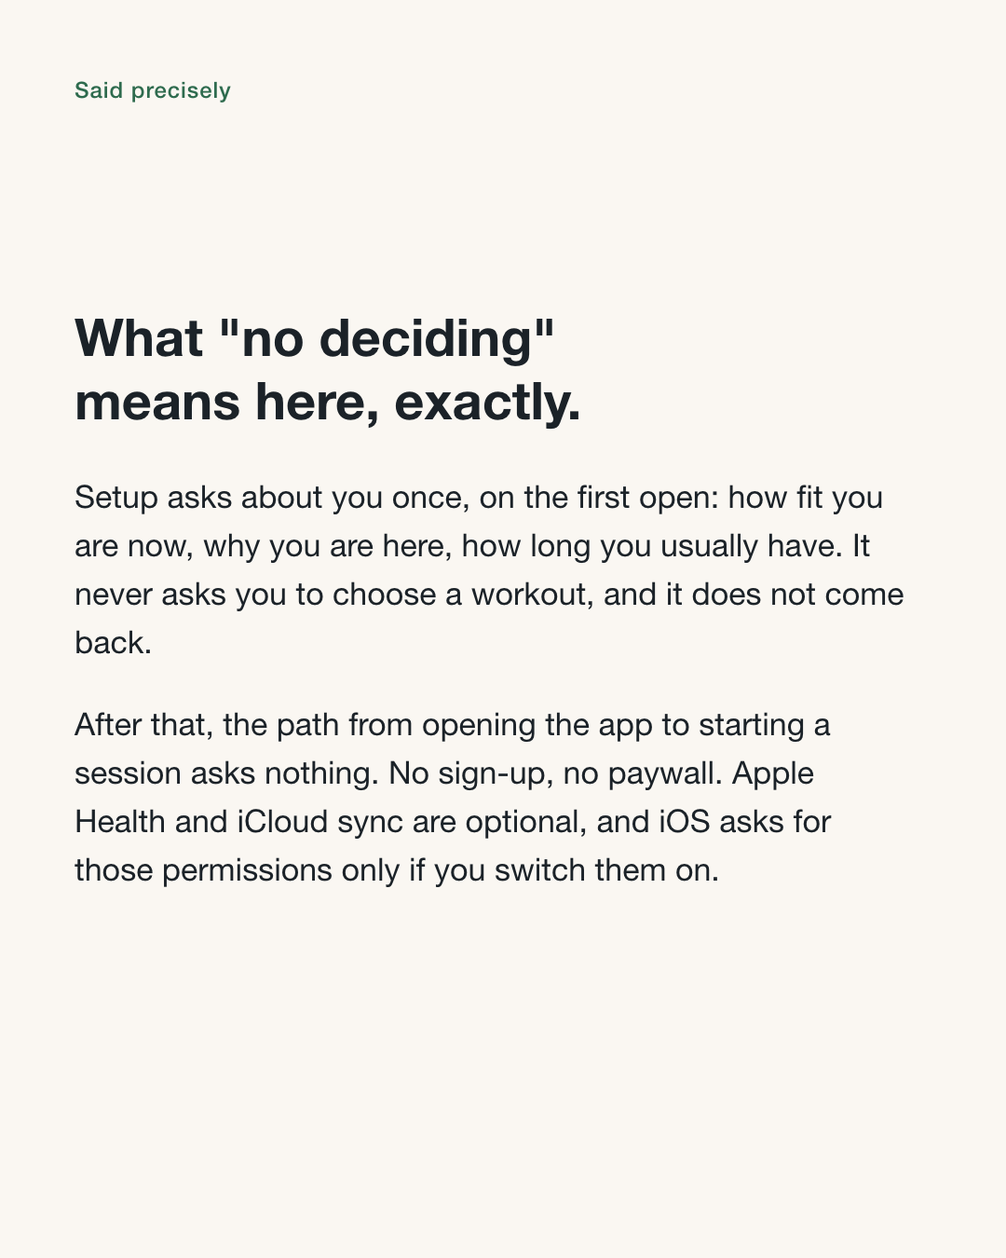
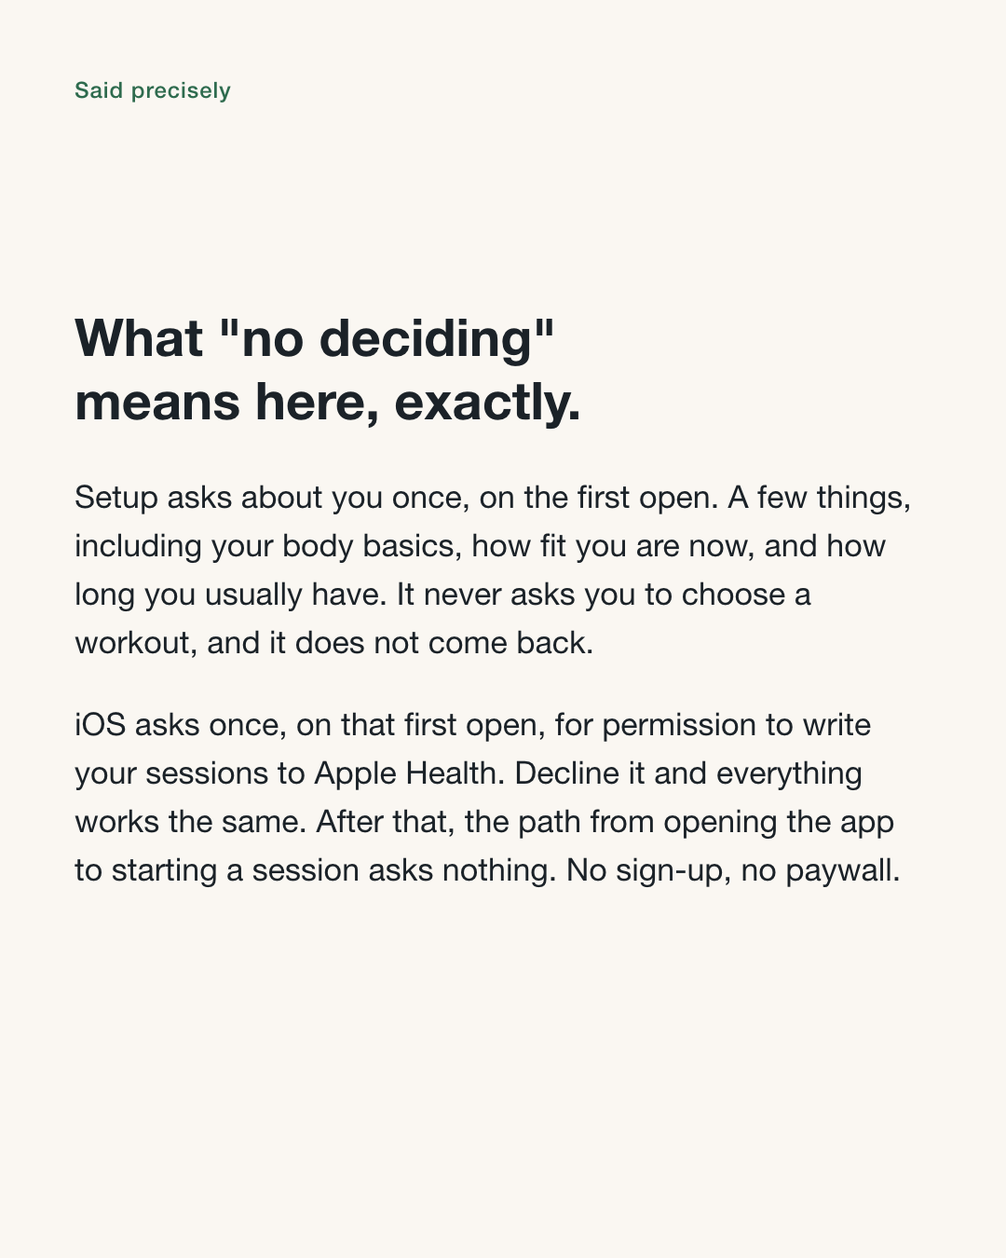
no-mistakes(review): fix false Health claim, near-verbatim hooks, guard vacuous passes

Changed region(s): [[0.0611, 0.56, 0.8861, 0.7156], [0.0611, 0.3733, 0.9167, 0.5289]]

diff --git a/gtm/10-instagram/carousel-1-you-do-not-pick/slide-06.html b/gtm/10-instagram/carousel-1-you-do-not-pick/slide-06.html
@@ -14,8 +14,8 @@
 
   <div class="zone">
     <h2 class="h2">What "no deciding"<br>means here, exactly.</h2>
-    <p class="body" style="margin-top: 44px;">Setup asks about you once, on the first open: how fit you are now, why you are here, how long you usually have. It never asks you to choose a workout, and it does not come back.</p>
-    <p class="body" style="margin-top: 36px;">After that, the path from opening the app to starting a session asks nothing. No sign-up, no paywall. Apple Health and iCloud sync are optional, and iOS asks for those permissions only if you switch them on.</p>
+    <p class="body" style="margin-top: 44px;">Setup asks about you once, on the first open. A few things, including your body basics, how fit you are now, and how long you usually have. It never asks you to choose a workout, and it does not come back.</p>
+    <p class="body" style="margin-top: 36px;">iOS asks once, on that first open, for permission to write your sessions to Apple Health. Decline it and everything works the same. After that, the path from opening the app to starting a session asks nothing. No sign-up, no paywall.</p>
   </div>
 
   <div class="rail rail-bottom">

diff --git a/gtm/10-instagram/carousel-1-you-do-not-pick/slide-05.html b/gtm/10-instagram/carousel-1-you-do-not-pick/slide-05.html
@@ -24,7 +24,7 @@
         <p class="step-name">Start</p>
       </div>
     </div>
-    <p class="body" style="margin-top: 56px;">Setup asks about you once, on the first open. After that, nothing stands between these two. No account to make, no subscription sheet.</p>
+    <p class="body" style="margin-top: 56px;">Setup asks about you once, on the first open, and iOS asks once about Health. After that, nothing stands between these two. No account to make, no subscription sheet.</p>
   </div>
 
   <div class="rail rail-bottom">

diff --git a/gtm/10-instagram/carousel-3-this-is-for-you-if/slide-02.html b/gtm/10-instagram/carousel-3-this-is-for-you-if/slide-02.html
@@ -15,7 +15,7 @@
   <div class="zone">
     <ul class="stack">
       <li><span class="lede">9pm</span>, once the kids are finally down.</li>
-      <li><span class="lede">7am</span> in a hotel room, before the first meeting.</li>
+      <li><span class="lede">7am</span>, before the first meeting of the day.</li>
       <li><span class="lede">Ten minutes between calls</span>, in whatever you are already wearing.</li>
     </ul>
   </div>

diff --git a/gtm/10-instagram/carousel-4-nothing-to-lose/slide-05.html b/gtm/10-instagram/carousel-4-nothing-to-lose/slide-05.html
@@ -13,7 +13,7 @@
   </div>
 
   <div class="zone">
-    <h2 class="h1">Five minutes counts as a full show-up.</h2>
+    <h2 class="h1">The shortest session is a full show-up.</h2>
     <p class="body" style="margin-top: 48px;">Not partial credit. Not an asterisk. The short session you had time for counts exactly the same as the long one you did not.</p>
   </div>
 

diff --git a/gtm/10-instagram/claim-audit.py b/gtm/10-instagram/claim-audit.py
@@ -24,11 +24,10 @@ Two jobs.
 
    This script only reads gtm/05-social-pmf/. It never writes there.
 
-   It guards the verbatim half of that rule and only the verbatim half. The rule
-   is about the proposition, and a leg restated in different words is the same
-   pre-exposure with none of the same bytes, which no string check can see.
-   README.md names, in the specific, which propositions this folder may not
-   carry; read it before writing a headline.
+   The rule it guards is verbatim reuse, which is the whole rule: the pairs run
+   on TikTok and YouTube Shorts and Instagram is not a test platform, so what a
+   carousel must not do is put a frozen leg's sentence in front of a reader.
+   README.md records why the scope stops there.
 """
 
 import os
@@ -204,10 +203,17 @@ def main():
                         seen.add(hit)
                         failures.append(hit)
 
-        flat = normalize(visible)
-        for hook in hooks:
-            if hook in flat:
-                failures.append("%s restates a frozen PMF hook verbatim: %r" % (rel, hook))
+        # Same two scans, and for the same reason: blanking the tags is what
+        # catches a hook broken across a <br>, and the raw file is what keeps a
+        # hook parked in a <title>, an alt, or an aria-label from slipping past.
+        for source in (visible, raw):
+            flat = normalize(source)
+            for hook in hooks:
+                if hook in flat:
+                    hit = "%s restates a frozen PMF hook verbatim: %r" % (rel, hook)
+                    if hit not in seen:
+                        seen.add(hit)
+                        failures.append(hit)
 
     print("Audited %d authored file(s) in gtm/10-instagram/, of which %d are "
           "publishable copy (slides and captions)." % (len(files), len(copy_files)))

diff --git a/gtm/10-instagram/widow-check.py b/gtm/10-instagram/widow-check.py
@@ -140,7 +140,13 @@ def main(argv):
     dirs = argv or sorted(os.path.basename(d.rstrip("/"))
                           for d in glob.glob(os.path.join(HERE, "carousel-*/")))
     slides, failures = 0, []
+    # A named carousel that does not exist is a mistyped argument, not an empty
+    # result. Measuring nothing and printing PASS is the one answer a guard must
+    # never give, so an unknown name and a zero-slide run both fail below.
     for name in dirs:
+        if not os.path.isdir(os.path.join(HERE, name)):
+            failures.append("no such carousel directory: %s" % name)
+            continue
         for slide in sorted(glob.glob(os.path.join(HERE, name, "slide-*.html"))):
             slides += 1
             for entry in measure(chrome, slide):
@@ -149,12 +155,15 @@ def main(argv):
                                     % (os.path.relpath(slide, HERE), entry["cls"], w,
                                        " / ".join(entry["lines"])))
 
+    if slides == 0:
+        failures.append("measured no slides at all, so nothing was checked.")
+
     print("Measured line boxes on %d slide(s)." % slides)
     print()
     if failures:
         for f in failures:
             print("FAIL  %s" % f)
-        print("\n%d widow(s)." % len(failures))
+        print("\n%d finding(s)." % len(failures))
         return 1
     print("PASS  no headline or large-type line is a lone word of %d characters "
           "or fewer." % MAX_WIDOW_WORD)

diff --git a/gtm/10-instagram/fit-check.py b/gtm/10-instagram/fit-check.py
@@ -119,6 +119,13 @@ def check(path):
 
 
 def main(paths):
+    # A check with nothing to check must not print PASS. Handed an empty path
+    # list, this would otherwise report a clean run over zero slides, which is
+    # the one result a guard is never allowed to give.
+    if not paths:
+        print("FAIL  no slides to check: fit-check.py was given no paths.")
+        return 1
+
     failures = 0
     for path in paths:
         try:

diff --git a/gtm/10-instagram/README.md b/gtm/10-instagram/README.md
@@ -44,7 +44,9 @@ Instagram is a non-adjudicating distribution mirror in that experiment.
 This folder is a separate, additive surface, and the separation is load-bearing:
 
 - **Carousel performance never adjudicates an angle.** No result from these posts kills, revives, or ranks anything in the angle bank. Nothing here is written to `creative-log.json`, and nothing here should be.
-- **No slide or caption pre-exposes an A/B pair leg, as a string or as a proposition.** Pre-exposing one leg biases the day-N versus day-N+7 comparison that the pair exists to resolve, and what biases it is a reader arriving at the leg already familiar with what it says, not with how it was spelled. The verbatim half is enforced mechanically by `claim-audit.py` below. The idea half cannot be, and is written out in the specific just below so it cannot recur by being forgotten.
+- **No slide or caption restates an A/B pair leg hook verbatim.** Putting a frozen leg's own sentence in front of a reader pre-exposes it and biases the day-N versus day-N+7 comparison the pair exists to resolve. `claim-audit.py` below enforces this mechanically.
+
+  The rule is verbatim-scoped on purpose, and the scope is worth recording so it does not get quietly widened again: the pairs run on TikTok and YouTube Shorts, `../05-social-pmf/platform-assignment.md` explicitly excludes Instagram as a test platform, and the positioning pillars underneath the hooks are deliberately shared with this folder (see the line below), so a rule reaching past the strings would forbid the carousels from saying what the product is.
 - **Nothing under `../05-social-pmf/` was modified.** Not one character. The audit script reads those files and never writes to them.
 
 Drawing on Hero A, Hero B, and the five messaging pillars in `../02-brand/positioning.md` is fine and encouraged, because those are positioning rather than frozen experiment hooks.
@@ -60,22 +62,13 @@ Two of the five carousels were briefed under working titles that turned out to b
 | "Missing a day never zeroes you out." | AB-2, leg B | **"There is nothing here to lose."** |
 
 Both working titles are also approved hero headlines in `../02-brand/brand-guidelines.md` section 9, which is exactly why the collision is easy to miss: the A/B pairs froze the hero headlines as leg B of their pairs.
-Where the two rules meet, the experiment-integrity rule governs, and it governs the proposition rather than only the sentence.
+Where the two rules meet, the experiment-integrity rule governs the sentence and positioning governs the idea.
 
-**What that means for AB-1, concretely, because this is the rule that is easy to satisfy on paper and break in fact.**
-Leg B's proposition is that the workout is *already there when you open the app*.
-An earlier revision of carousel 1 avoided leg B's string and then said the same thing in different words ("It is on screen when the app opens", "It opens ready. That is the entire idea."), which pre-exposes exactly what the pair is trying to measure.
-So no hook, headline, eyebrow, caption opening line, or closing line anywhere in this folder now asserts that the workout is there or ready at the moment of opening.
-What carousel 1 carries instead is the truth underneath it: **you do not pick the workout, the choosing is done for you, there is no menu.**
-That is `positioning.md` pillar 1, it belongs to neither leg of AB-1, and it is what the whole carousel is now built on, which is why the folder is `carousel-1-you-do-not-pick/` rather than named after the leg-B phrasing it used to echo.
+So carousel 1 leads on the truth underneath AB-1's leg B rather than on leg B's own line: **you do not pick the workout, the choosing is done for you, there is no menu.**
+That is `positioning.md` pillar 1, which is shared on purpose, and it is what the whole carousel is built on, which is why the folder is `carousel-1-you-do-not-pick/`.
 
-The one thing the rule permits is a mechanism sentence in body copy, once, inside a slide, where explaining *how* the session gets there requires saying that the app opens to it.
-An explanation on slide 4 of a swipe is not what builds hook familiarity; a hook is.
-The line to hold is that the leg-B claim may never occupy a hook position, and the two rules are settled the same way everywhere: the idea belongs to positioning, the specific proposition under test belongs to the experiment.
-
-Carousel 4's replacement deliberately enters from a third direction.
-AB-2 tests "admit the cost" (leg A) against "pure negation of loss" (leg B), so a forgiveness hook written either way would lean on one leg.
-"There is nothing here to lose" is an inventory of absent machinery instead, which is neither leg's framing.
+A handful of lines were also moved off strings that sat within about a word of a frozen hook, where the guard would have passed on a technicality rather than because the copy was clear of it: carousel 4's floor slide now reads "The shortest session is a full show-up." rather than pairing five minutes with counting as showing up (AB-5 leg A), and carousel 3's small-windows slide no longer situates one in a hotel room (AB-5 leg B's distinguishing move).
+Near-miss paraphrase is where the verbatim rule is thinnest, so it is worth checking a new headline against `ab-pairs.md` by eye even when the script is green.
 
 ## Claim hygiene
 
@@ -99,7 +92,7 @@ The **character check** covers every file including this one, because the no-em-
 
 Inside a slide, those two checks read the copy **with the markup blanked out**, because a reader sees the headline and not its tags.
 Matching the raw file missed anything spanning an inline tag, and this folder line-breaks its headlines with explicit `<br>` exactly where a break would land, so `71<br>movements` or a leg hook broken over two lines was invisible to the guard at precisely the place it was most likely to occur.
-Tags are blanked rather than deleted, so reported line numbers still point at the real line, and the patterns are also run against the raw file so an attribute value stays covered.
+Tags are blanked rather than deleted, so reported line numbers still point at the real line, and both checks are also run against the raw file so an attribute value stays covered: every slide carries a `<title>` and an `aria-label`, which are authored copy a hook could hide in just as easily as a banned figure could.
 
 That last check is a deliberate **superset** of the rule: it guards all 12 A/B leg hooks plus the angle bank's hooks and the mined review quotes, so it is stricter than "no A/B leg hook verbatim" requires.
 It parses the frozen files live rather than hard-coding a hook list, so it cannot drift out of date.
@@ -181,7 +174,7 @@ Run against `../08-redteam/pre-publication-checklist.md`, item by item:
 | Device benchmark for the speed claim *(blocking: social)* | No | Does not block: no asset here carries a speed figure. |
 | Verify every behavioural claim against the approved binary before launch day | **Yes, at launch** | Open. Every mechanic claimed here is in the shipped engine, but the package convention is to re-verify against the binary before launch day. |
 | Domain decision / register before any asset carrying a URL ships | No | No asset here carries a URL. The captions say "Link in bio", which names the profile rather than a destination; that the bio has one to point at is part of the account item above. |
-| Privacy policy, FAQ / event-schema / nutrition-label reconciliation | No | No asset here makes a data-practices claim. |
+| Privacy policy, FAQ / event-schema / nutrition-label reconciliation | **Yes, narrowly** | One claim: carousel 1 slide 6 says iOS asks once for permission to write your sessions to Apple Health and that declining changes nothing. Verified against `RootView.swift` (the request is unconditional on entering the main tabs, so it is a system ask and not an in-app switch) and `HealthKitService.swift` (write-only, and a denial is a quiet no-op). Nothing here describes analytics, and no asset states a retention or sharing practice. |
 | Account deletion path | No | Submission concern, not an asset concern. |
 | Confirm App Store pricing, regenerate screenshot 05 | No | No asset here states a price. |
 | Re-record the video voiceover | No | Video only. |
@@ -251,7 +244,7 @@ The HTML is the source of truth and the PNGs under each `carousel-*/render/` are
 Both are committed, so a reviewer can see the assets without running anything.
 Re-rendering on **the same Chrome build** reproduces them byte for byte, which is what makes a diff meaningful after a copy edit; a different Chrome version can rasterize, compress, or font-fall-back differently and produce a whole-folder binary diff with no copy change behind it, so read an unexplained 35-file image diff as a toolchain difference before reading it as a regression.
 `render.sh` finds Chrome or Chromium itself, renders every slide at a forced device scale factor of 1, and then runs all three guards, so a layout that does not fit, a headline that widows, or a claim that collides fails the regenerate instead of reaching a reviewer.
-Rendering a carousel that has no slides in it is also a failure rather than a green run over nothing.
+Rendering a carousel that has no slides in it is also a failure rather than a green run over nothing, and each guard enforces that for itself rather than trusting the caller: a mistyped carousel name, an empty directory, or an empty path list fails in `fit-check.py` and `widow-check.py` too, because a check with nothing to check must never print PASS.
 
 ### Publishing, when Gate 0 clears
 

diff --git a/gtm/10-instagram/carousel-1-you-do-not-pick/caption.md b/gtm/10-instagram/carousel-1-you-do-not-pick/caption.md
@@ -11,7 +11,7 @@ Wanting to move was never the hard part. The hard part is the stack of small cho
 
 Rep Today takes that stack off you. An engine assembles the whole session on the phone, offline, sized to the time you have, and hands it over with one Start button. Not a faster menu. No menu.
 
-Being precise about "no deciding", because it is the kind of line that gets stretched: setup asks about you once, on the first open, and it never asks you to choose a workout. After that, the path from opening the app to starting a session asks nothing. No sign-up, no paywall. Apple Health and iCloud sync are optional, and iOS asks for those permissions only if you switch them on.
+Being precise about "no deciding", because it is the kind of line that gets stretched: setup asks about you once, on the first open, and it never asks you to choose a workout. iOS asks once, on that first open, for permission to write your sessions to Apple Health, and declining changes nothing about how the app works. After that, the path from opening the app to starting a session asks nothing. No sign-up, no paywall.
 
 5 to 60 minutes. Bodyweight, so it needs no equipment. Built on the phone, so it needs no signal.
 
@@ -25,14 +25,14 @@ iOS, not released yet. Link in bio.
 
 **Slide 1.** The Rep Today Ready Mark, a green outlined rounded square with a filled circle low inside it, sits small in the top left of a warm off-white card. Below a short green rule, large dark type reads: "You do not pick a workout." The word "Swipe" sits quietly at the bottom left.
 
-**Slide 2.** A warm off-white card. A small green label at the top reads "What you get instead". Large dark type near the bottom reads: "The session is chosen for you." Beneath it, smaller text: "A complete bodyweight session, assembled on your phone and sized to the time you have. Anywhere from 5 to 60 minutes. One Start button, nothing to browse."
+**Slide 2.** A warm off-white card. A small green label at the top reads "What you get instead". Large dark type reads: "The session is chosen for you." Beneath it, smaller text: "A complete bodyweight session, assembled on your phone and sized to the time you have. Anywhere from 5 to 60 minutes. One Start button, nothing to browse."
 
 **Slide 3.** A small green label at the top reads "The gap". Large dark type reads: "Wanting to move is not the hard part." Below it, two short paragraphs: "The hard part is the stack of small choices in between. Which app. Which program. How long do I have. Is this the right one. Where did I leave off." and "Each one is small. Together they are the reason the mat stayed rolled up."
 
 **Slide 4.** A small green label at the top reads "The inversion". Large dark type reads: "So the deciding happens before you arrive." Below it: "Rep Today assembles the whole session on the phone, then opens to it. Not a faster menu. No menu."
 
-**Slide 5.** A small green label at the top reads "The whole path to a session". A simple two-box diagram sits low on the card: a box labelled "First" containing the word "Open", a small green dot, and a box labelled "Then" containing the word "Start". Underneath: "Setup asks about you once, on the first open. After that, nothing stands between these two. No account to make, no subscription sheet."
+**Slide 5.** A small green label at the top reads "The whole path to a session". A simple two-box diagram sits in the middle of the card: a box labelled "First" containing the word "Open", a small green dot, and a box labelled "Then" containing the word "Start". Underneath: "Setup asks about you once, on the first open, and iOS asks once about Health. After that, nothing stands between these two. No account to make, no subscription sheet."
 
-**Slide 6.** A small green label at the top reads "Said precisely". Dark type reads: "What 'no deciding' means here, exactly." Below it, two paragraphs: "Setup asks about you once, on the first open: how fit you are now, why you are here, how long you usually have. It never asks you to choose a workout, and it does not come back." and "After that, the path from opening the app to starting a session asks nothing. No sign-up, no paywall. Apple Health and iCloud sync are optional, and iOS asks for those permissions only if you switch them on."
+**Slide 6.** A small green label at the top reads "Said precisely". Dark type reads: "What 'no deciding' means here, exactly." Below it, two paragraphs: "Setup asks about you once, on the first open. A few things, including your body basics, how fit you are now, and how long you usually have. It never asks you to choose a workout, and it does not come back." and "iOS asks once, on that first open, for permission to write your sessions to Apple Health. Decline it and everything works the same. After that, the path from opening the app to starting a session asks nothing. No sign-up, no paywall."
 
 **Slide 7.** Closing card. Large dark type reads: "You bring the minutes. It brings the session." Below it: "Bodyweight only, so it needs no equipment. Built on the phone, so it needs no signal." At the bottom, the Ready Mark beside the words "Rep Today", then the line "iOS, not released yet.", then small grey legal type: "Pre-launch. 'Rep Today' has not been trademark-searched or registered, and the App Store name has not been reserved."

diff --git a/gtm/10-instagram/carousel-4-nothing-to-lose/caption.md b/gtm/10-instagram/carousel-4-nothing-to-lose/caption.md
@@ -17,7 +17,7 @@ What there is instead is a Consistency Score: a rolling average of showing up, r
 
 A missed day moves that number. The dent is real, it is small, and it recovers as soon as you do. What the score will not do is go back to zero, because there is no zero to go back to.
 
-Five minutes counts as a full show-up. Not partial credit, not an asterisk. The short session you had time for counts exactly the same as the long one you did not.
+The shortest session is a full show-up. Not partial credit, not an asterisk. The short session you had time for counts exactly the same as the long one you did not.
 
 And coming back is the event, not the failure. Return after a week away and the app opens to a session that is easy and winnable, and it treats the return itself as the thing worth marking.
 
@@ -39,7 +39,7 @@ iOS, not released yet. Link in bio.
 
 **Slide 4.** A small green label at the top reads "The honest version". Large dark type reads: "A missed day moves the number. It cannot empty it." Below it: "The dent is real, and it is small, and it recovers as soon as you do. What a missed day cannot do is wipe out the weeks of showing up behind it."
 
-**Slide 5.** A small green label at the top reads "Where the floor sits". Large dark type reads: "Five minutes counts as a full show-up." Below it: "Not partial credit. Not an asterisk. The short session you had time for counts exactly the same as the long one you did not."
+**Slide 5.** A small green label at the top reads "Where the floor sits". Large dark type reads: "The shortest session is a full show-up." Below it: "Not partial credit. Not an asterisk. The short session you had time for counts exactly the same as the long one you did not."
 
 **Slide 6.** A small green label at the top reads "After a gap". Large dark type reads: "Coming back is the event, not the failure." Below it: "Return after a week away and the app opens to a session that is easy and winnable, and it treats the return itself as the thing worth marking."
 

diff --git a/gtm/10-instagram/carousel-3-this-is-for-you-if/caption.md b/gtm/10-instagram/carousel-3-this-is-for-you-if/caption.md
@@ -12,7 +12,7 @@ the load-bearing one: it is what makes the other six credible.
 
 This is for you if you have ten minutes and no plan.
 
-The windows are real, and they are small. 9pm, once the kids are finally down. 7am in a hotel room, before the first meeting. Ten minutes between calls, in whatever you are already wearing.
+The windows are real, and they are small. 9pm, once the kids are finally down. 7am, before the first meeting of the day. Ten minutes between calls, in whatever you are already wearing.
 
 You never lacked the will. You lacked a session you did not have to plan.
 
@@ -34,7 +34,7 @@ iOS, not released yet. Link in bio.
 
 **Slide 1.** The Rep Today Ready Mark, a green outlined rounded square with a filled circle low inside it, sits small in the top left of a warm off-white card. A small green label reads "This is for you if". Below it, large dark type: "You have ten minutes and no plan." The word "Swipe" sits quietly at the bottom left.
 
-**Slide 2.** A small green label at the top reads "The windows are real, and they are small". Below it, three statements separated by thin horizontal rules, each opening in bold: "9pm, once the kids are finally down." / "7am in a hotel room, before the first meeting." / "Ten minutes between calls, in whatever you are already wearing."
+**Slide 2.** A small green label at the top reads "The windows are real, and they are small". Below it, three statements separated by thin horizontal rules, each opening in bold: "9pm, once the kids are finally down." / "7am, before the first meeting of the day." / "Ten minutes between calls, in whatever you are already wearing."
 
 **Slide 3.** A small green label at the top reads "The part nobody says out loud". The rest of the card is a single large dark statement: "You never lacked the will. You lacked a session you did not have to plan."
 
